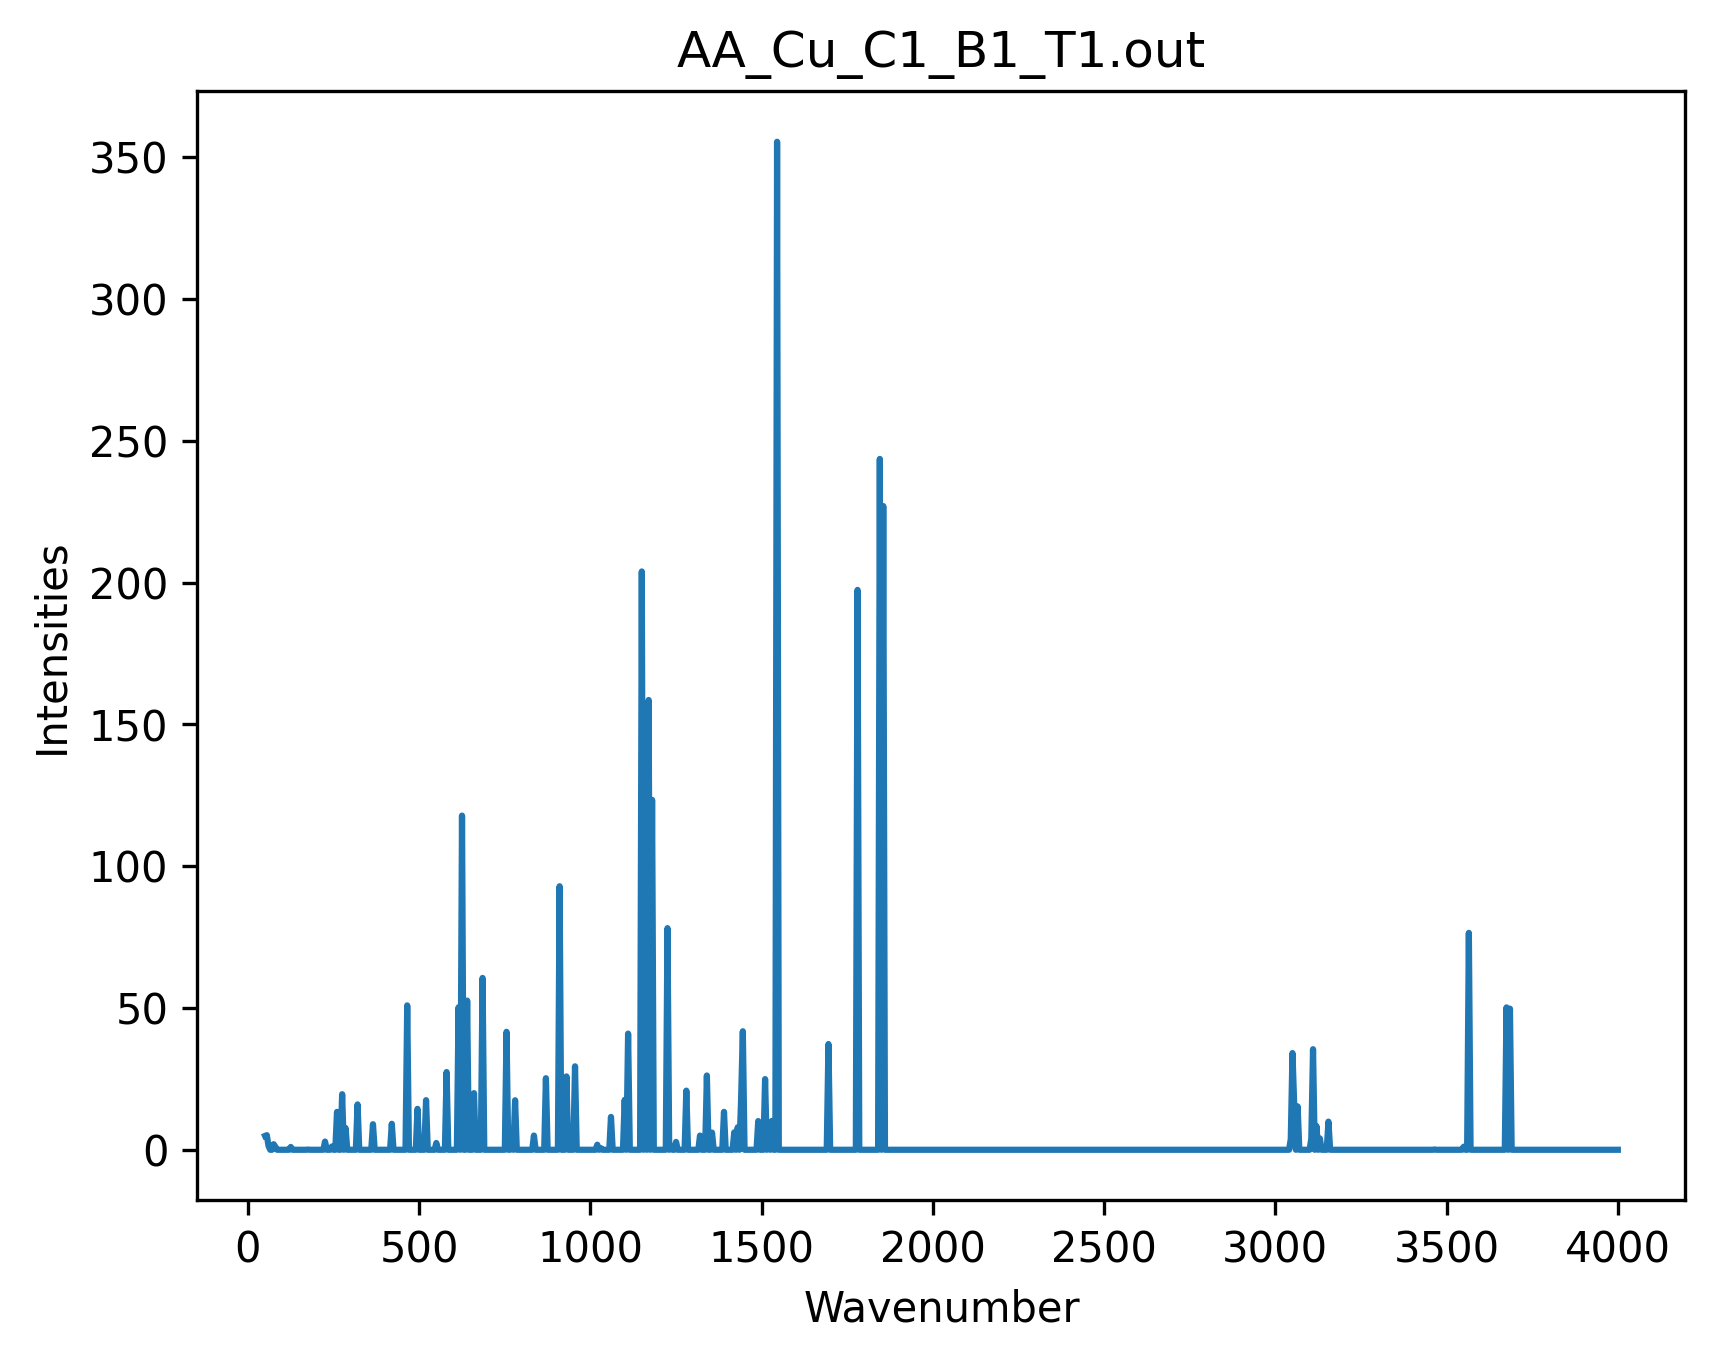
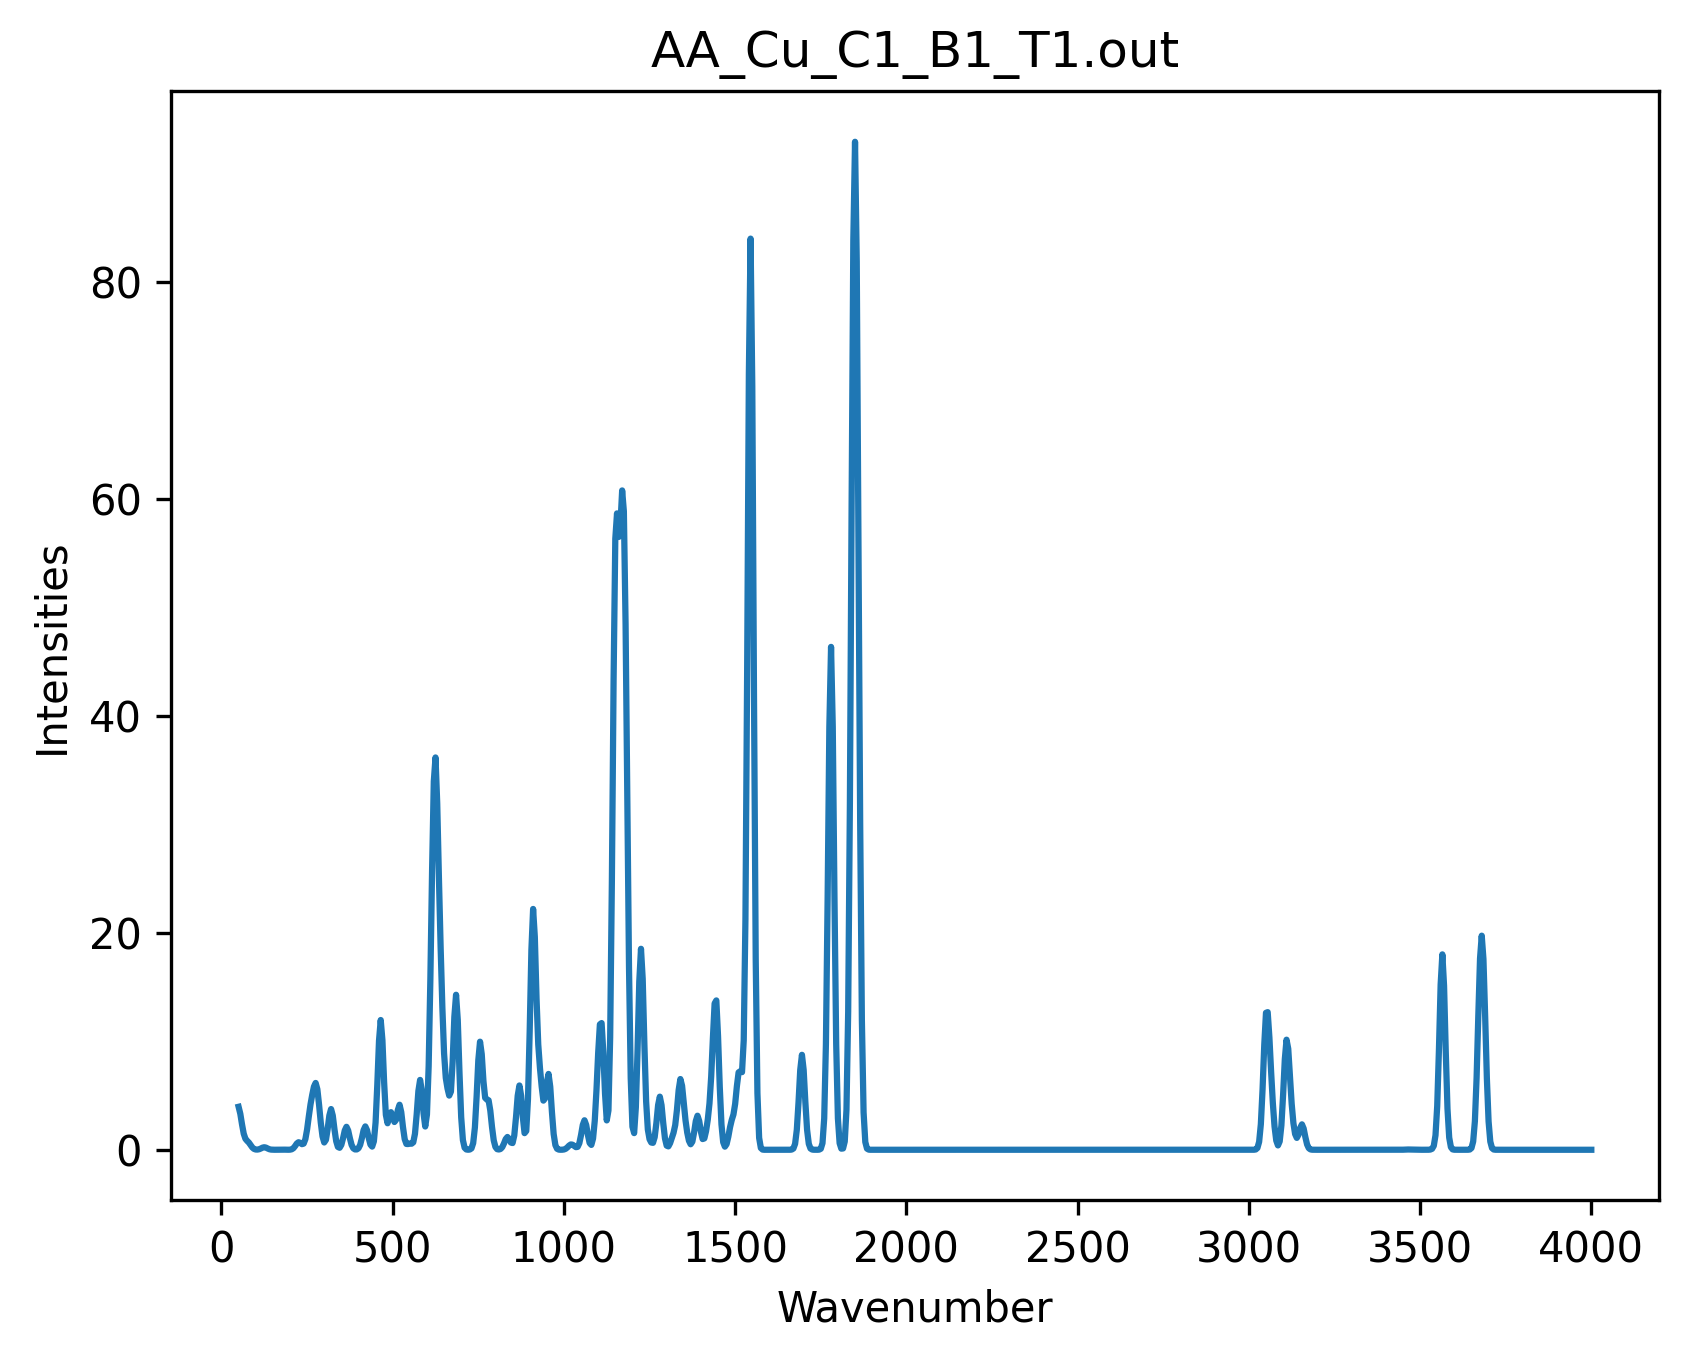
Ran using the Guassain broadening, no pipeline code changed.

diff --git a/matplot/data_plot.py b/matplot/data_plot.py
@@ -4,7 +4,7 @@ import matplotlib.pyplot as plt
 import numpy as np
 
 #Loads the CSV file containing the NWChem results into a DataFrame and prints it to the console to view.
-df=pd.read_csv('data/nwchem_results.csv')
+df=pd.read_csv('data/nwchem_results.csv') #change name depending on what data file you want to plot
 #print(df)
 
 #this only grabs the columns that start with 'spec_' and stores them in a list called spec_column. It then sorts the list based on the integer value that comes after 'spec_' in the column name.
